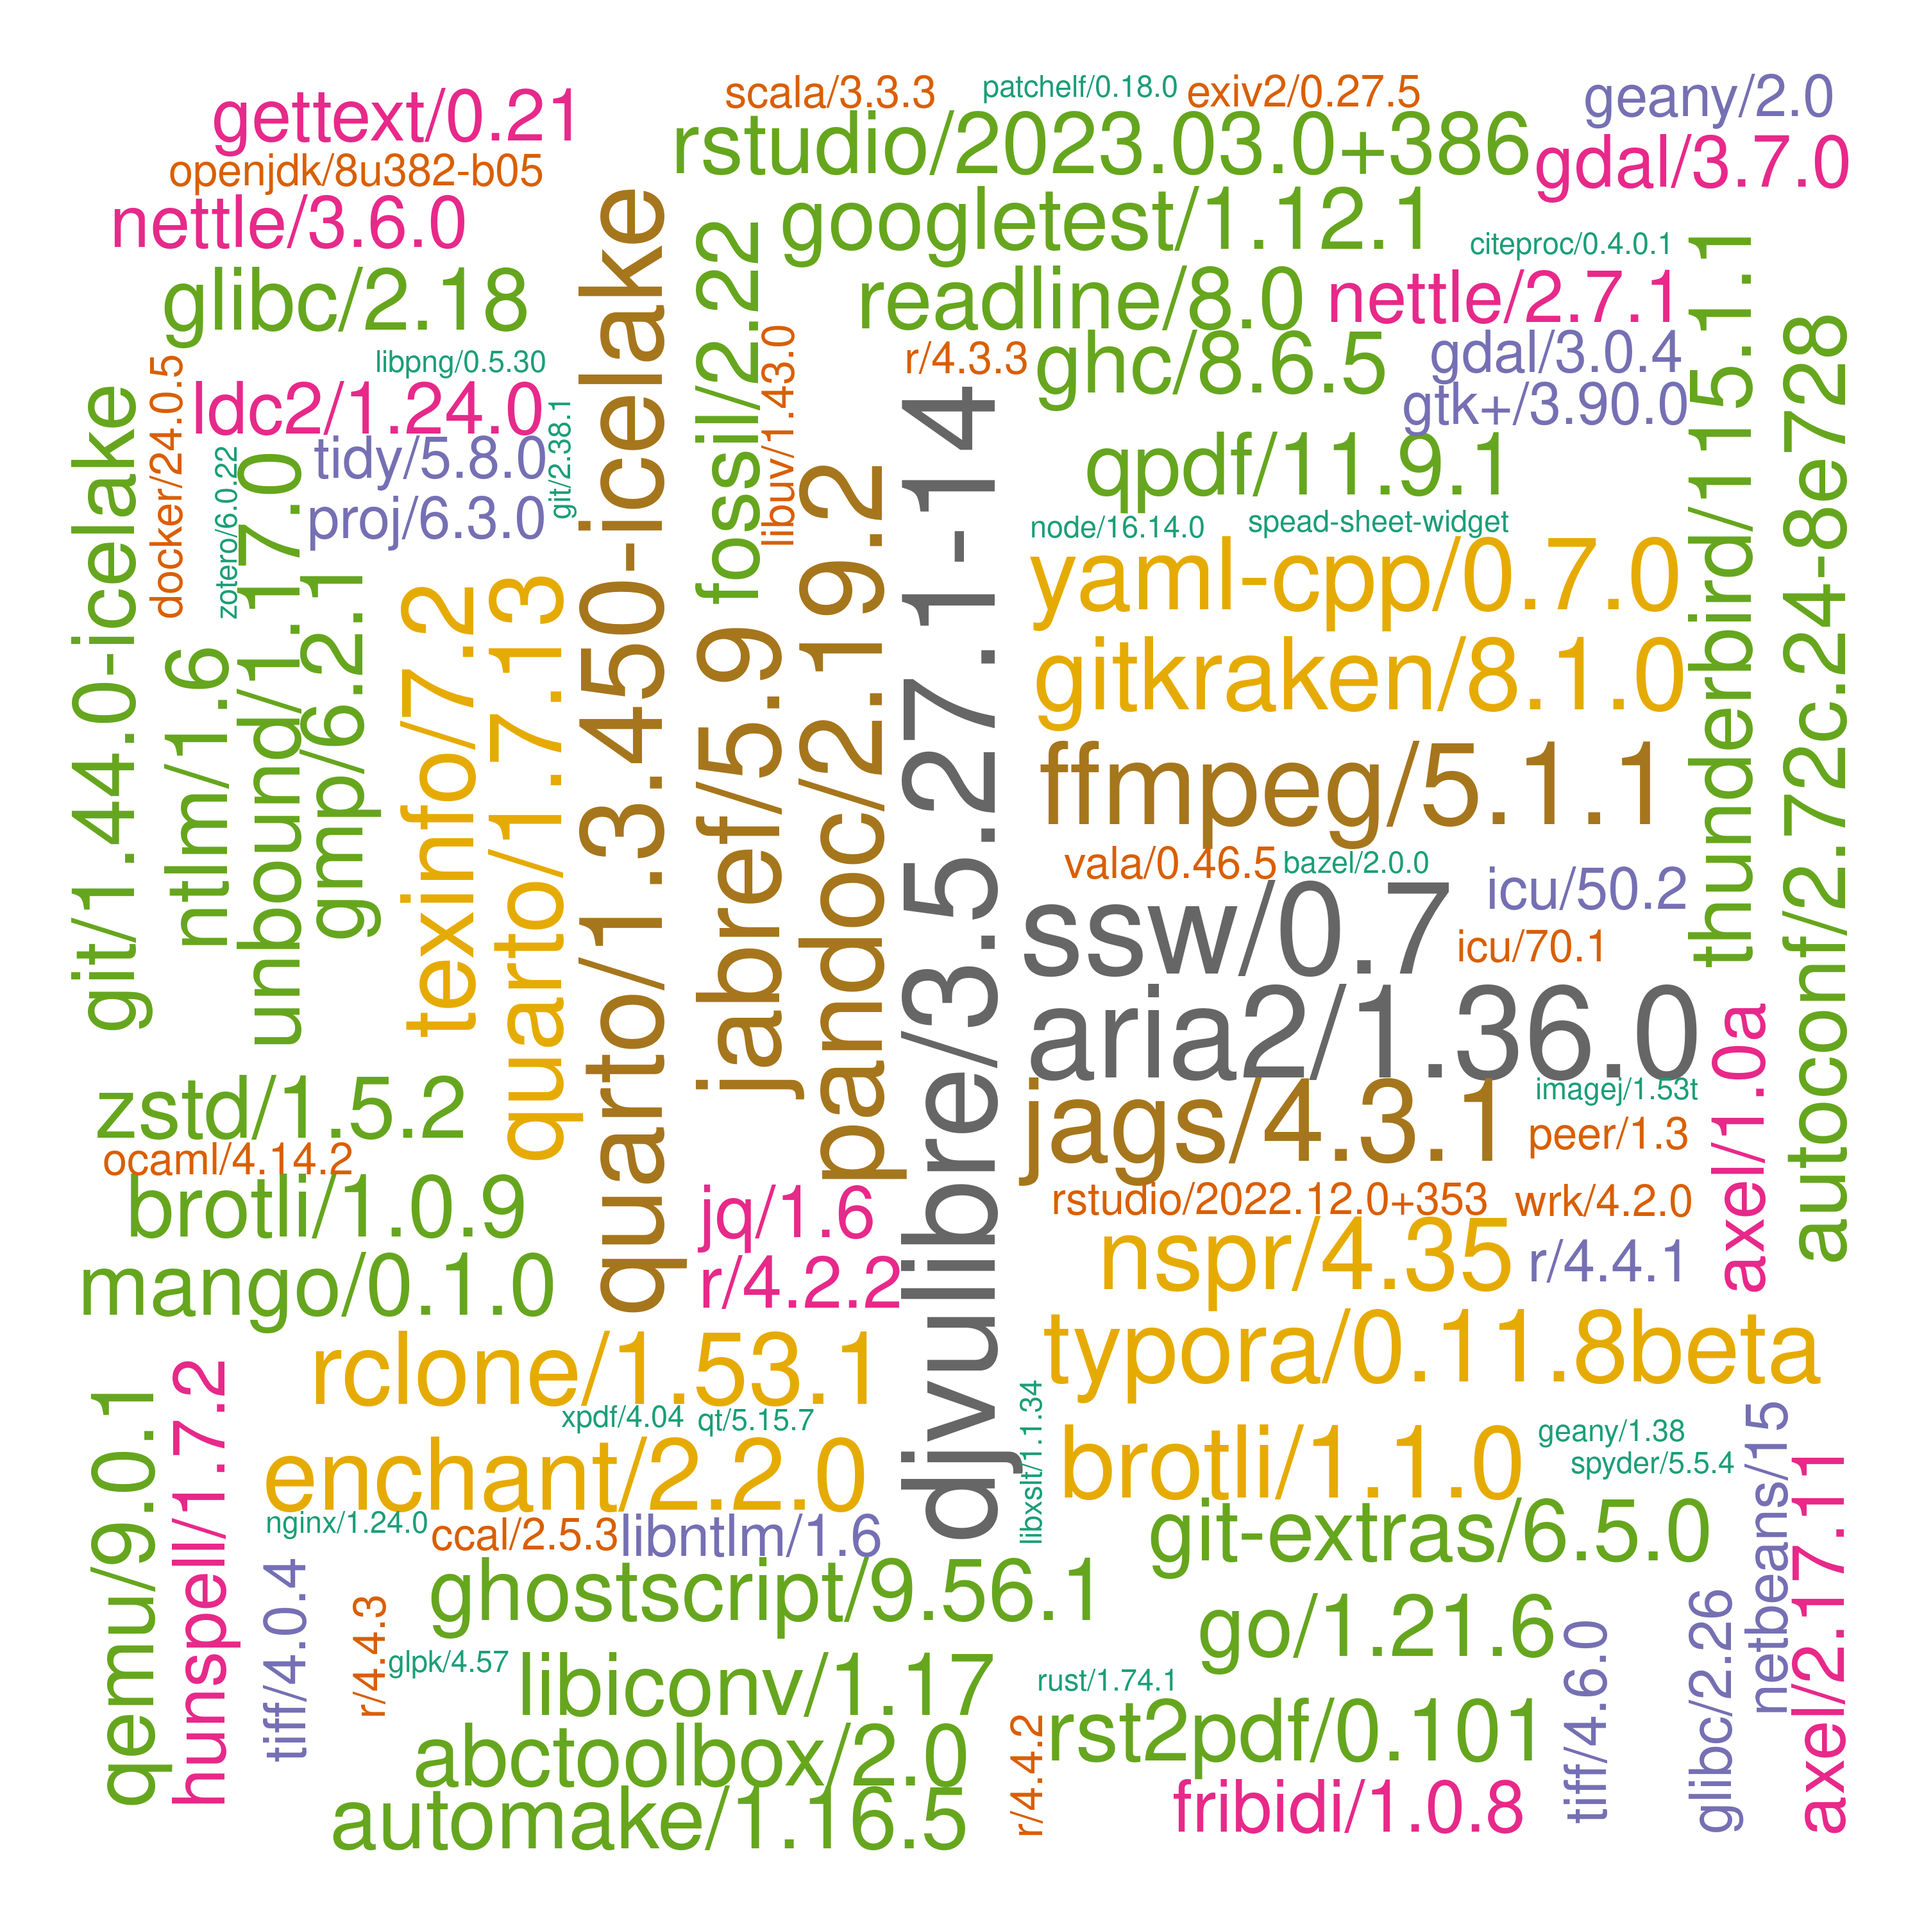
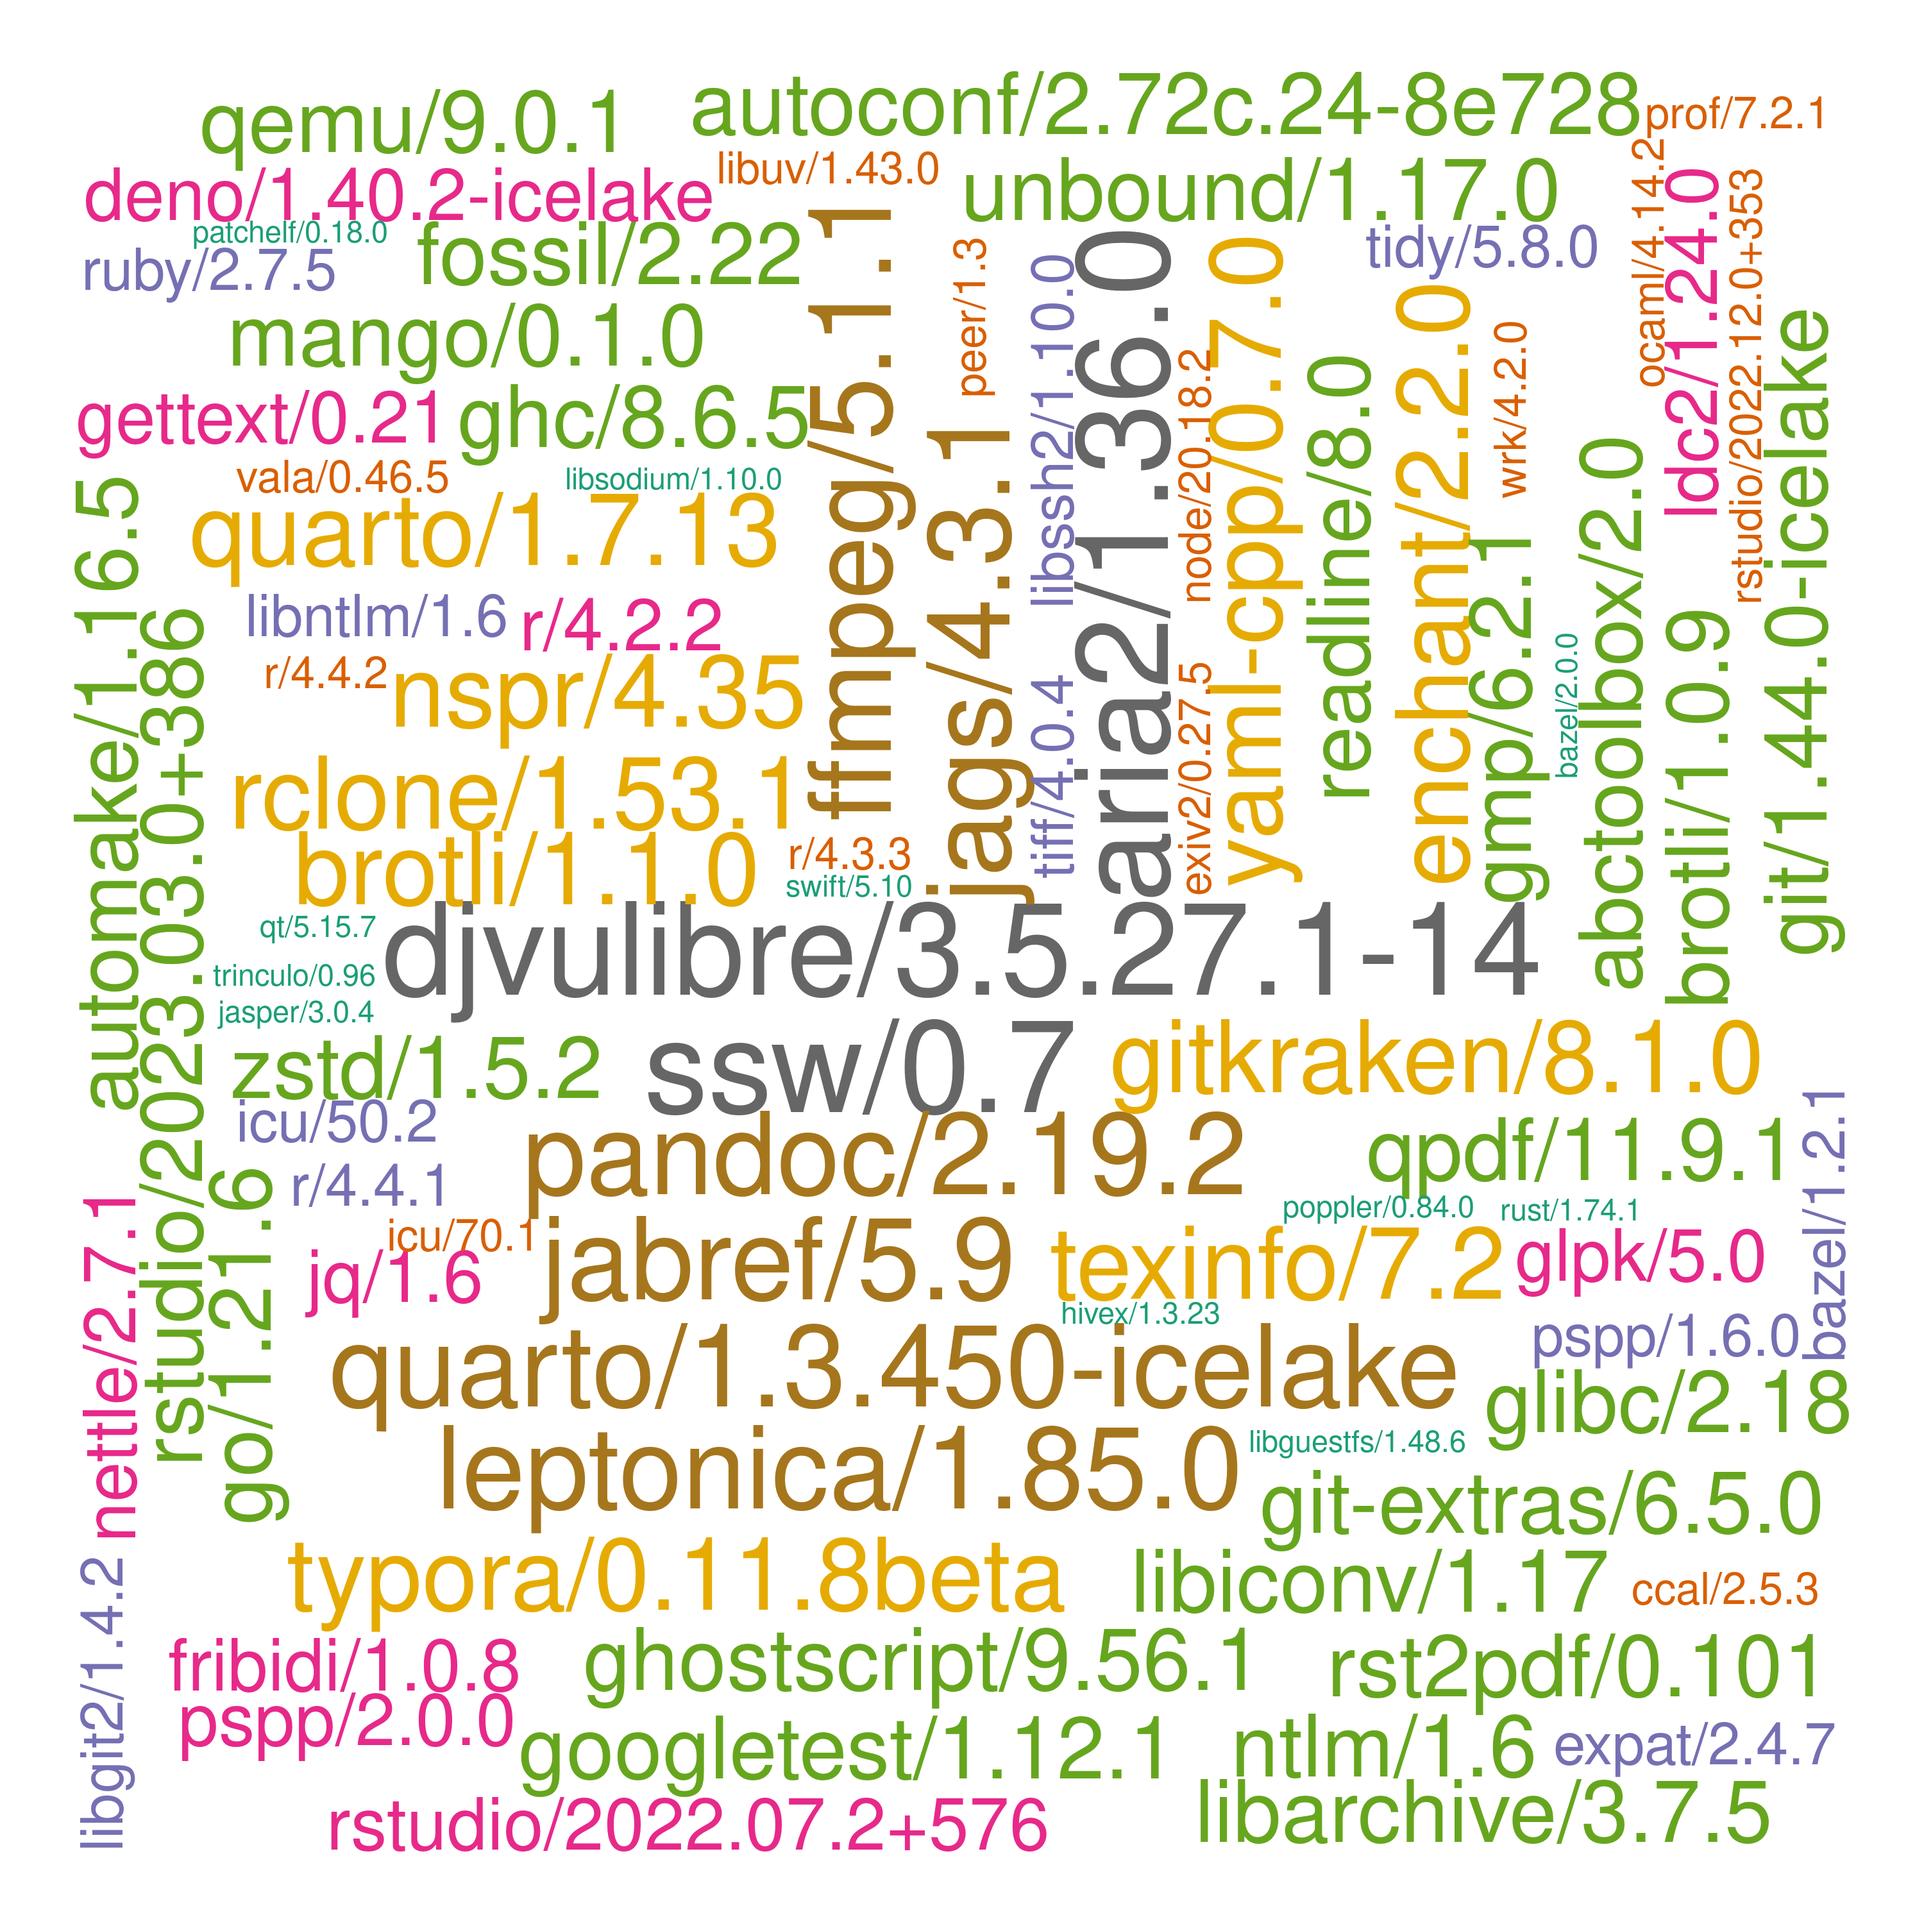
./

diff --git a/systems/ceuadmin.md b/systems/ceuadmin.md
@@ -45,46 +45,46 @@ The current list is as follows,
 [117] "jasper"                 "jq"                     "json-c"                 "KentUtils"
 [121] "KING"                   "kojak"                  "krb5"                   "lapack"
 [125] "ldc2"                   "ldsc"                   "LDstore"                "LEMMA"
-[129] "libarchive"             "libcares"               "libgcrypt"              "libgeotiff"
-[133] "libgit2"                "libglvnd"               "libiconv"               "libidn2"
-[137] "libjpeg-turbo"          "libntlm"                "libpng"                 "libseccomp"
-[141] "libsodium"              "libssh"                 "libssh2"                "libuv"
-[145] "libxml2"                "libxslt"                "linux"                  "locuszoom"
-[149] "LVM2"                   "MAGENTA"                "magma"                  "Mango"
-[153] "MaxQuant"               "Mega2"                  "metal"                  "MetaMorpheus"
-[157] "Miniconda3"             "MONSTER"                "MORGAN"                 "MR-MEGA"
-[161] "msamanda"               "MsCAVIAR"               "MSFragger"              "MS-GF+"
-[165] "msms"                   "nano"                   "ncbi-vdb"               "ncurses"
-[169] "netbeans"               "nettle"                 "nextflow"               "nginx"
-[173] "NLopt"                  "node"                   "nspr"                   "ntlm"
-[177] "ocaml"                  "ollama"                 "oniguruma"              "opam"
-[181] "openjdk"                "OpenMS"                 "openssh"                "openssl"
-[185] "osca"                   "p7zip-zstd"             "PAINTOR"                "pandoc"
-[189] "pandoc-citeproc"        "pango"                  "parallel"               "Pascal"
-[193] "patchelf"               "pcre2"                  "pdf2djvu"               "pdfjam"
-[197] "peer"                   "Perseus"                "pgsc_calc"              "phenoscanner"
-[201] "PhySO"                  "picard"                 "pigz"                   "plink"
-[205] "plink-bgi"              "plinkseq"               "podman"                 "PoGo"
-[209] "polyphen"               "poppler"                "popt"                   "proj"
-[213] "PRSice"                 "pspp"                   "pulsar"                 "PWCoCo"
-[217] "pwiz"                   "qctool"                 "qemu"                   "qpdf"
-[221] "qt"                     "qtcreator"              "QTLtools"               "quarto"
-[225] "quicktest"              "R"                      "raremetal"              "rclone"
-[229] "readline"               "regenie"                "regtools"               "RHHsoftware"
-[233] "rst2pdf"                "rstudio"                "rtmpdump"               "ruby"
-[237] "rust"                   "sage"                   "samtools"               "Scala"
-[241] "seqkit"                 "shapeit"                "singularity"            "SMR"
-[245] "snakemake"              "SNP2HLA"                "snptest"                "spread-sheet-widget"
-[249] "spyder"                 "sqlite"                 "sra-tools"              "sshpass"
-[253] "ssw"                    "STAR"                   "stata"                  "SurvivalAnalysis"
-[257] "SurvivalKit"            "Swift"                  "SYMPHONY"               "tabix"
-[261] "tandem"                 "tatami"                 "texinfo"                "ThermoRawFileParser"
-[265] "ThermoRawFileParserGUI" "thunderbird"            "tidy"                   "tiff"
-[269] "trinculo"               "trousers"               "Typora"                 "unbound"
-[273] "vala"                   "VarScan"                "vcftools"               "VEGAS2"
-[277] "verifyBamID"            "VSCode"                 "VSCodium"               "vte"
-[281] "wine"                   "wrk"                    "xpdf"                   "yaml-cpp"
-[285] "Zotero"                 "zstd"
+[129] "leptonica"              "libarchive"             "libcares"               "libgcrypt"
+[133] "libgeotiff"             "libgit2"                "libglvnd"               "libiconv"
+[137] "libidn2"                "libjpeg-turbo"          "libntlm"                "libpng"
+[141] "libseccomp"             "libsodium"              "libssh"                 "libssh2"
+[145] "libuv"                  "libxml2"                "libxslt"                "linux"
+[149] "locuszoom"              "LVM2"                   "MAGENTA"                "magma"
+[153] "Mango"                  "MaxQuant"               "Mega2"                  "metal"
+[157] "MetaMorpheus"           "Miniconda3"             "MONSTER"                "MORGAN"
+[161] "MR-MEGA"                "msamanda"               "MsCAVIAR"               "MSFragger"
+[165] "MS-GF+"                 "msms"                   "nano"                   "ncbi-vdb"
+[169] "ncurses"                "netbeans"               "nettle"                 "nextflow"
+[173] "nginx"                  "NLopt"                  "node"                   "nspr"
+[177] "ntlm"                   "ocaml"                  "ollama"                 "oniguruma"
+[181] "opam"                   "openjdk"                "OpenMS"                 "openssh"
+[185] "openssl"                "osca"                   "p7zip-zstd"             "PAINTOR"
+[189] "pandoc"                 "pandoc-citeproc"        "pango"                  "parallel"
+[193] "Pascal"                 "patchelf"               "pcre2"                  "pdf2djvu"
+[197] "pdfjam"                 "peer"                   "Perseus"                "pgsc_calc"
+[201] "phenoscanner"           "PhySO"                  "picard"                 "pigz"
+[205] "plink"                  "plink-bgi"              "plinkseq"               "podman"
+[209] "PoGo"                   "polyphen"               "poppler"                "popt"
+[213] "proj"                   "PRSice"                 "pspp"                   "pulsar"
+[217] "PWCoCo"                 "pwiz"                   "qctool"                 "qemu"
+[221] "qpdf"                   "qt"                     "qtcreator"              "QTLtools"
+[225] "quarto"                 "quicktest"              "R"                      "raremetal"
+[229] "rclone"                 "readline"               "regenie"                "regtools"
+[233] "RHHsoftware"            "rst2pdf"                "rstudio"                "rtmpdump"
+[237] "ruby"                   "rust"                   "sage"                   "samtools"
+[241] "Scala"                  "seqkit"                 "shapeit"                "singularity"
+[245] "SMR"                    "snakemake"              "SNP2HLA"                "snptest"
+[249] "spread-sheet-widget"    "spyder"                 "sqlite"                 "sra-tools"
+[253] "sshpass"                "ssw"                    "STAR"                   "stata"
+[257] "SurvivalAnalysis"       "SurvivalKit"            "Swift"                  "SYMPHONY"
+[261] "tabix"                  "tandem"                 "tatami"                 "tesseract"
+[265] "texinfo"                "ThermoRawFileParser"    "ThermoRawFileParserGUI" "thunderbird"
+[269] "tidy"                   "tiff"                   "trinculo"               "trousers"
+[273] "Typora"                 "unbound"                "vala"                   "VarScan"
+[277] "vcftools"               "VEGAS2"                 "verifyBamID"            "VSCode"
+[281] "VSCodium"               "vte"                    "wine"                   "wrk"
+[285] "xpdf"                   "yaml-cpp"               "Zotero"                 "zstd"
 ```
 
 These are wrapped up as :star::star::star: **[modules](https://modules.readthedocs.io/en/latest/index.html)** :star::star::star:.

diff --git a/systems/setup.md b/systems/setup.md
@@ -369,6 +369,8 @@ All entries are ordered chronologically.
 | 2025-02-24  | VSCode/1.97.2                    | Genetic              |
 | 2025-02-26  | ollama/0.5.12                    | Genetic[^ollama]     |
 | 2025-02-28  | R/4.4.3                          | Generic              |
+| 2025-03-01  | leptonica/1.85.0                 | Generic              |
+| ""          | tesseract/5.5.0                  | Generic[^tesseract]  |
 
 \* CEU or approved users only.
 
@@ -1794,4 +1796,18 @@ They are generated from script [setup.sh](setup.sh),
     tar tvfz ollama-linux-amd64.tgz
     ollama --help
     ollama list
+    ```
+
+[^tesseract]: **tesseract**
+
+    ```bash
+    module load ceuadmin/leptonica/1.85.0
+    module load ceuadmin/libgcrypt
+    module load ceuadmin/autoconf
+    wget -qO- https://github.com/tesseract-ocr/tesseract/archive/refs/tags/5.5.0.tar.gz | \
+    tar xvfz -
+    cd tesseract-5.5.0/
+    ./autogen.sh
+    ./configure --prefix=$CEUADMIN/tesseract/5.5.0 CXXFLAGS="-std=c++17" LDFLAGS="-lstdc++fs"
+    make && make install
     ```
